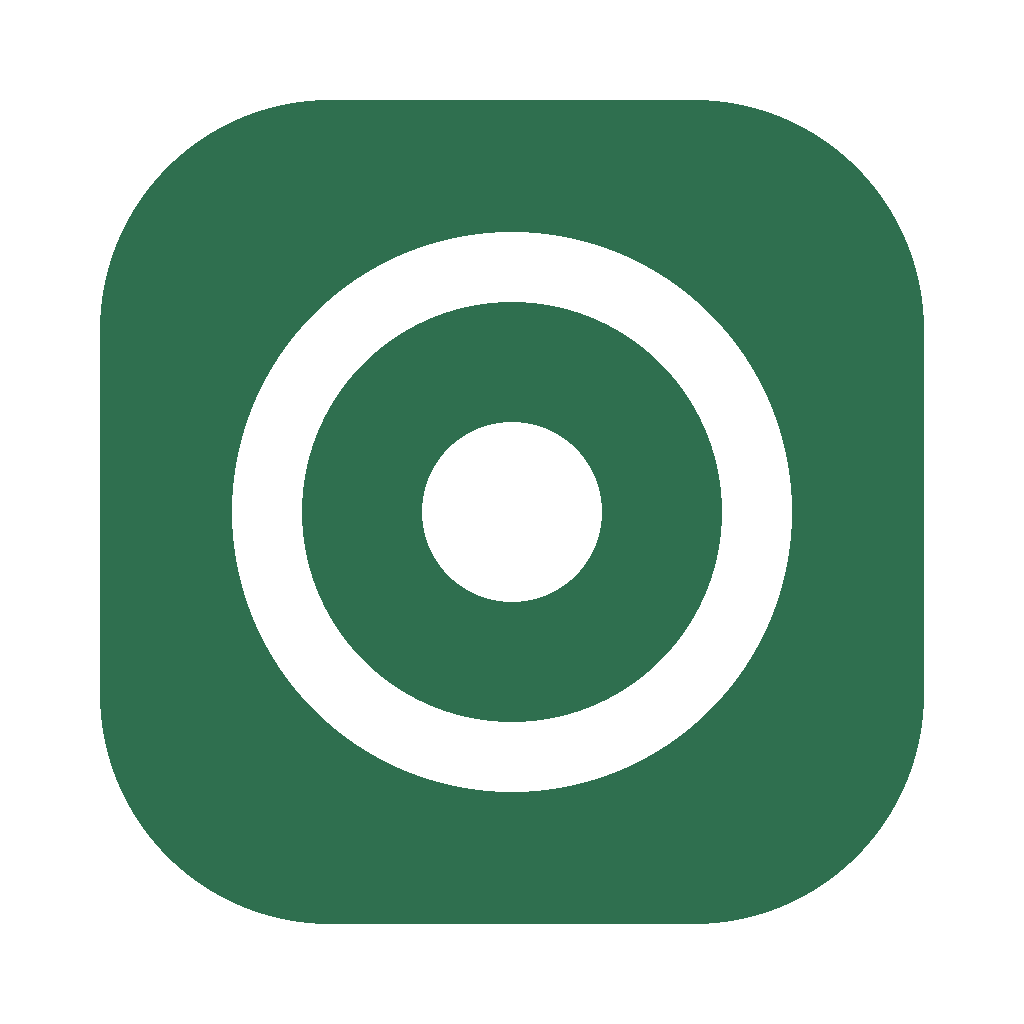
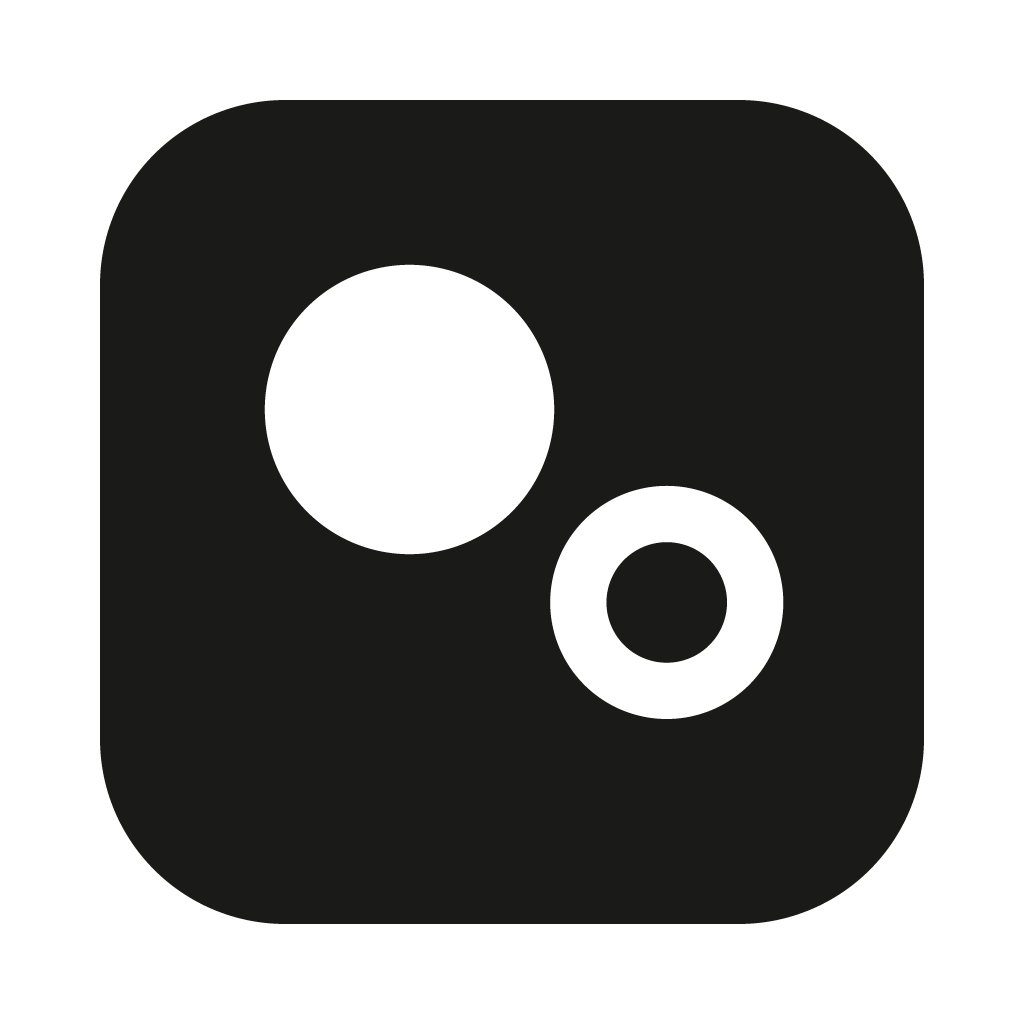
设计系统:"一实一空"的两声图形,品牌色只用墨色
- 决策记录 0009:图形是一实一空的两个圆;空心表示还没发生或正在发生,
  实心表示已有结果,这条规则贯穿菜单栏、状态标记和未读标记;品牌色只用
  墨色,彩色只表示状态;字标写作小写等宽的 bugu。
- docs/DESIGN.md:名字写法、图形用法、菜单栏状态、浅色和深色的颜色变量、
  运行状态标记、文字、形状、组件和文案。AGENTS.md 增加指向它的链接。
- resources/logo.svg 作为图形的几何定义;应用图标改为墨色圆角方块加反白
  图形;菜单栏模板图标按同一几何绘制并抗锯齿。
- 前端换用新的颜色变量;顶栏改为图形加 bugu 字标;状态由彩色标签改为
  圆点加文字,只有失败和中断用彩色文字;任务名、触发和时间用等宽字体。

菜单栏图标随状态变化(运行中、有新结果、有失败)尚未实现,要等未读计数。

已验证:make check 通过;在浏览器里查看了浅色和深色两种模式下的任务
列表和运行记录。新图标尚未在打包后的应用里查看。

diff --git a/internal/server/static/style.css b/internal/server/static/style.css
@@ -1,14 +1,18 @@
+/* 颜色和尺寸的取值见 docs/DESIGN.md。品牌只用墨色,彩色只表示状态。 */
 :root {
-  --bg: #f6f6f4; --surface: #fff; --text: #1d1d1b; --muted: #6b6b66; --line: #e2e2dc;
-  --accent: #2f6f4f; --accent-text: #fff; --danger: #b3261e; --warn: #9a6700;
-  --ok-bg: #e4f2e9; --bad-bg: #fbe7e5; --warn-bg: #fdf1d3; --idle-bg: #ecece6;
+  --ink: #1a1a18; --on-ink: #fff;
+  --bg: #f5f5f2; --surface: #fff; --hover: #efefea; --line: #e4e4de;
+  --text: #1a1a18; --muted: #6e6e68; --idle: #9a9a93;
+  --ok: #2e7d4f; --bad: #c2362b; --warn: #8f5c00;
+  --mono: ui-monospace, SFMono-Regular, Menlo, Consolas, monospace;
   font: 14px/1.5 system-ui, -apple-system, "PingFang SC", "Microsoft YaHei", sans-serif;
 }
 @media (prefers-color-scheme: dark) {
   :root {
-    --bg: #171716; --surface: #222220; --text: #ecece8; --muted: #a3a39c; --line: #3a3a36;
-    --accent: #5fb389; --accent-text: #10241a; --danger: #ff8a80; --warn: #e5b85a;
-    --ok-bg: #1f3a2b; --bad-bg: #472321; --warn-bg: #43361a; --idle-bg: #33332f;
+    --ink: #ededea; --on-ink: #141413;
+    --bg: #141413; --surface: #1e1e1c; --hover: #262624; --line: #34342f;
+    --text: #ededea; --muted: #a2a29b; --idle: #77776f;
+    --ok: #5fbf86; --bad: #ff7b6e; --warn: #e3b04f;
   }
 }
 * { box-sizing: border-box; }
@@ -17,51 +21,67 @@ body { margin: 0; background: var(--bg); color: var(--text); }
 h1 { font-size: 16px; margin: 0; }
 h2 { font-size: 18px; margin: 0; }
 h3 { font-size: 13px; margin: 16px 0 6px; color: var(--muted); font-weight: 600; }
-code, pre { font-family: ui-monospace, SFMono-Regular, Menlo, Consolas, monospace; font-size: 12.5px; }
+code, pre, .mono { font-family: var(--mono); font-size: 12.5px; }
 
 .bar { display: flex; align-items: center; gap: 16px; padding: 10px 20px; background: var(--surface); border-bottom: 1px solid var(--line); }
+.brand { display: flex; align-items: center; gap: 7px; color: var(--ink); font: 400 16px/1 var(--mono); }
+.brand svg { width: 22px; height: 22px; }
 .spacer { flex: 1; }
 .tab { border: 0; background: none; padding: 6px 10px; border-radius: 6px; color: var(--muted); }
-.tab.active { background: var(--idle-bg); color: var(--text); font-weight: 600; }
+.tab:hover { color: var(--text); }
+.tab.active { background: var(--hover); color: var(--text); font-weight: 600; }
 main { max-width: 1040px; margin: 0 auto; padding: 24px 20px 48px; }
 .head { display: flex; align-items: center; justify-content: space-between; gap: 12px; margin-bottom: 14px; }
 .muted { color: var(--muted); }
 .empty { color: var(--muted); padding: 36px 0; text-align: center; }
-.error { color: var(--danger); margin: 10px 0; white-space: pre-wrap; }
+.error { color: var(--bad); margin: 10px 0; white-space: pre-wrap; }
 .card { background: var(--surface); border: 1px solid var(--line); border-radius: 10px; padding: 20px; }
 .narrow { max-width: 420px; margin: 48px auto; display: grid; gap: 12px; }
 
 .scroll { overflow-x: auto; }
-table { width: 100%; border-collapse: collapse; background: var(--surface); border: 1px solid var(--line); border-radius: 10px; }
+table { width: 100%; border-collapse: separate; border-spacing: 0; background: var(--surface); border: 1px solid var(--line); border-radius: 10px; }
 th, td { text-align: left; padding: 9px 12px; border-bottom: 1px solid var(--line); white-space: nowrap; }
 th { font-size: 12px; color: var(--muted); font-weight: 600; }
 tbody tr:last-child td { border-bottom: 0; }
+td.mono { font-size: 13px; }
+td.time { font-family: var(--mono); font-size: 13px; color: var(--muted); }
 td.wrap { white-space: normal; min-width: 180px; }
 td.ops { text-align: right; }
 td.ops button { margin-left: 6px; }
 #runs-table tbody tr { cursor: pointer; }
-#runs-table tbody tr:hover, #runs-table tbody tr:focus { background: var(--idle-bg); outline: none; }
+#runs-table tbody tr:hover, #runs-table tbody tr:focus { background: var(--hover); outline: none; }
 
-.badge { display: inline-block; padding: 1px 8px; border-radius: 999px; font-size: 12px; background: var(--idle-bg); }
-.badge.ok { background: var(--ok-bg); }
-.badge.bad { background: var(--bad-bg); color: var(--danger); }
-.badge.warn { background: var(--warn-bg); color: var(--warn); }
+/* 状态标记:空心表示还没发生或正在发生,实心表示已有结果。 */
+.mark { display: inline-flex; align-items: center; gap: 6px; --c: var(--idle); }
+.mark::before { content: ""; flex: none; width: 10px; height: 10px; border-radius: 50%; }
+.mark.solid::before { background: var(--c); }
+.mark.ring::before { border: 2px solid var(--c); }
+.mark.spin::before { border: 2px dashed var(--c); animation: spin 3s linear infinite; }
+.mark.ink { --c: var(--ink); }
+.mark.ok { --c: var(--ok); }
+.mark.warn { --c: var(--warn); }
+.mark.bad { --c: var(--bad); color: var(--bad); }
+.mark.quiet { color: var(--muted); }
+@keyframes spin { to { transform: rotate(360deg); } }
+@media (prefers-reduced-motion: reduce) { .mark.spin::before { animation: none; } }
 
 button, input, select, textarea { font: inherit; color: inherit; }
 button { border: 1px solid var(--line); background: var(--surface); padding: 5px 12px; border-radius: 6px; cursor: pointer; }
 button:hover { border-color: var(--muted); }
 button:disabled { opacity: .5; cursor: default; }
-button.primary { background: var(--accent); border-color: var(--accent); color: var(--accent-text); font-weight: 600; }
-button.danger { color: var(--danger); }
-:focus-visible { outline: 2px solid var(--accent); outline-offset: 1px; }
+button.primary { background: var(--ink); border-color: var(--ink); color: var(--on-ink); font-weight: 600; }
+button.primary:hover { opacity: .88; }
+button.danger { color: var(--bad); }
+:focus-visible { outline: 2px solid var(--ink); outline-offset: 1px; }
 
 label { display: grid; gap: 4px; margin-top: 10px; font-weight: 600; font-size: 13px; }
 label.inline { display: inline-flex; align-items: center; gap: 6px; margin: 0 14px 0 0; font-weight: 400; font-size: 14px; }
 label small { font-weight: 400; color: var(--muted); }
 input:not([type=radio]), select, textarea { width: 100%; padding: 6px 8px; border: 1px solid var(--line); border-radius: 6px; background: var(--bg); font-weight: 400; font-size: 14px; }
+input[type=radio] { accent-color: var(--ink); }
 label.inline select { width: auto; }
-textarea { resize: vertical; font-family: ui-monospace, Menlo, Consolas, monospace; font-size: 12.5px; }
-fieldset { border: 1px solid var(--line); border-radius: 8px; margin: 14px 0 0; padding: 10px 14px 14px; }
+textarea { resize: vertical; font-family: var(--mono); font-size: 12.5px; }
+fieldset { border: 1px solid var(--line); border-radius: 10px; margin: 14px 0 0; padding: 10px 14px 14px; }
 legend { padding: 0 6px; color: var(--muted); font-size: 12px; }
 
 dialog { border: 1px solid var(--line); border-radius: 12px; padding: 20px; background: var(--surface); color: var(--text); width: min(560px, calc(100vw - 32px)); max-height: calc(100vh - 32px); }
@@ -71,10 +91,10 @@ dialog::backdrop { background: rgba(0, 0, 0, .35); }
 dl { display: grid; grid-template-columns: max-content 1fr; gap: 4px 16px; margin: 0; }
 dt { color: var(--muted); }
 dd { margin: 0; overflow-wrap: anywhere; }
-pre { margin: 0; padding: 10px 12px; background: var(--bg); border: 1px solid var(--line); border-radius: 8px; max-height: 280px; overflow: auto; white-space: pre-wrap; overflow-wrap: anywhere; }
+pre { margin: 0; padding: 10px 12px; background: var(--bg); border: 1px solid var(--line); border-radius: 10px; max-height: 280px; overflow: auto; white-space: pre-wrap; overflow-wrap: anywhere; }
 pre:empty::before { content: "(空)"; color: var(--muted); }
 
-.bar h1, .tab, #nav { white-space: nowrap; }
+.bar .brand, .tab, #nav { white-space: nowrap; }
 @media (max-width: 520px) {
   #conn { display: none; }
   .bar { padding: 10px 14px; gap: 10px; }

diff --git a/internal/server/static/app.js b/internal/server/static/app.js
@@ -97,20 +97,21 @@ function toLocalInput(iso) {
   return `${d.getFullYear()}-${pad(d.getMonth() + 1)}-${pad(d.getDate())}T${pad(d.getHours())}:${pad(d.getMinutes())}`;
 }
 
+// 运行状态的文字和标记。标记的画法见 docs/DESIGN.md:空心是还没发生或正在发生,实心是已有结果。
 const STATUS = {
-  queued: ["排队中", ""],
-  running: ["运行中", "warn"],
-  succeeded: ["成功", "ok"],
-  failed: ["失败", "bad"],
-  timed_out: ["超时", "bad"],
-  skipped: ["已跳过", ""],
-  missed: ["已错过", ""],
-  canceled: ["已取消", ""],
-  interrupted: ["中断", "bad"],
+  queued: ["排队中", "ring"],
+  running: ["运行中", "spin ink"],
+  succeeded: ["成功", "solid ok"],
+  failed: ["失败", "solid bad"],
+  timed_out: ["超时", "solid warn"],
+  skipped: ["已跳过", "solid quiet"],
+  missed: ["已错过", "solid quiet"],
+  canceled: ["已取消", "solid quiet"],
+  interrupted: ["中断", "solid bad"],
 };
 
-function badge(text, kind) {
-  return h("span", { class: "badge " + (kind || "") }, text);
+function mark(text, kind) {
+  return h("span", { class: "mark " + kind }, text);
 }
 
 function describeTrigger(tr) {
@@ -168,13 +169,13 @@ async function loadTasks() {
 }
 
 function taskRow(t) {
-  const status = t.running ? badge("运行中", "warn") : t.paused ? badge("已暂停", "") : badge("已启用", "ok");
+  const status = t.running ? mark("运行中", "spin ink") : t.paused ? mark("已暂停", "ring quiet") : mark("等待", "ring");
   const act = (label, fn, cls) => h("button", { type: "button", class: cls || "", onclick: () => run(fn) }, label);
   return h("tr", {},
-    h("td", {}, t.name),
-    h("td", {}, h("code", {}, describeTrigger(t.trigger))),
+    h("td", { class: "mono" }, t.name),
+    h("td", { class: "time" }, describeTrigger(t.trigger)),
     h("td", {}, status),
-    h("td", {}, formatTime(t.next_run)),
+    h("td", { class: "time" }, formatTime(t.next_run)),
     h("td", { class: "ops" },
       act("立即运行", async () => {
         const r = await api("POST", `/tasks/${encodeURIComponent(t.name)}/run`);
@@ -367,12 +368,12 @@ async function loadRuns() {
 }
 
 function runRow(r) {
-  const [label, kind] = STATUS[r.status] || [r.status, ""];
+  const [label, kind] = STATUS[r.status] || [r.status, "ring"];
   const open = () => openRun(r.id);
   return h("tr", { tabindex: "0", onclick: open, onkeydown: (e) => e.key === "Enter" && open() },
-    h("td", {}, formatTime(r.started_at || r.created_at)),
-    h("td", {}, r.task),
-    h("td", {}, badge(label, kind)),
+    h("td", { class: "time" }, formatTime(r.started_at || r.created_at)),
+    h("td", { class: "mono" }, r.task),
+    h("td", {}, mark(label, kind)),
     h("td", {}, r.exit_code === undefined ? "-" : String(r.exit_code)),
     h("td", {}, r.trigger === "manual" ? "手动" : "定时"),
     h("td", { class: "wrap" }, r.note || (r.status === "failed" ? "" : r.error || "")));

diff --git a/internal/server/static/index.html b/internal/server/static/index.html
@@ -9,7 +9,7 @@
 </head>
 <body>
 <header class="bar">
-  <h1>布谷</h1>
+  <h1 class="brand" aria-label="布谷"><svg viewBox="0 0 48 48" aria-hidden="true"><circle cx="17" cy="19" r="9" fill="currentColor"/><circle cx="33" cy="31" r="5.5" fill="none" stroke="currentColor" stroke-width="3.5"/></svg>bugu</h1>
   <nav id="nav" hidden>
     <button type="button" data-view="tasks" class="tab">任务</button>
     <button type="button" data-view="runs" class="tab">运行记录</button>

diff --git a/internal/gui/gui.go b/internal/gui/gui.go
@@ -10,6 +10,7 @@ import (
 	"image/color"
 	"image/png"
 	"io"
+	"math"
 	"net/url"
 	"os"
 	"os/signal"
@@ -208,16 +209,28 @@ func (a *app) notify(m notify.Message) {
 	}
 }
 
-// trayIcon 画一个菜单栏用的模板图标:透明背景上的黑色圆环加中心圆点。
+// trayIcon 画菜单栏用的模板图标:透明背景上的黑色 logo,左上实心圆、右下空心圆。
+// 几何取自 resources/logo.svg,平移后正好占满 36×36(菜单栏 18pt 的两倍像素)。
 func trayIcon() []byte {
-	const size = 36
+	const size, sub = 36, 4 // 每个像素取 4×4 个采样点,边缘抗锯齿
+	const ox, oy = 5.5, 7.5 // logo 画布到图标的平移
+	inside := func(x, y float64) bool {
+		d1 := math.Hypot(x-(17-ox), y-(19-oy))
+		d2 := math.Hypot(x-(33-ox), y-(31-oy))
+		return d1 <= 9 || (d2 >= 5.5-1.75 && d2 <= 5.5+1.75)
+	}
 	img := image.NewNRGBA(image.Rect(0, 0, size, size))
 	for y := range size {
 		for x := range size {
-			dx, dy := float64(x)-size/2+0.5, float64(y)-size/2+0.5
-			if d := dx*dx + dy*dy; d <= 5*5 || (d >= 11*11 && d <= 14.5*14.5) {
-				img.Set(x, y, color.NRGBA{A: 255})
+			n := 0
+			for sy := range sub {
+				for sx := range sub {
+					if inside(float64(x)+(float64(sx)+0.5)/sub, float64(y)+(float64(sy)+0.5)/sub) {
+						n++
+					}
+				}
 			}
+			img.Set(x, y, color.NRGBA{A: uint8(n * 255 / (sub * sub))})
 		}
 	}
 	var b bytes.Buffer

diff --git a/docs/DESIGN.md b/docs/DESIGN.md
@@ -1,0 +1,107 @@
+# 设计规范
+
+Bugu 的视觉和界面写法。各项决定的理由见 [ADR 0009](adr/0009-brand-two-notes.md)。前端代码的结构见 [ARCHITECTURE.md](ARCHITECTURE.md)。
+
+## 一条规则
+
+**空心表示还没发生或正在发生,实心表示已经有了结果。** 图形、菜单栏、状态标记、未读标记都从这条规则来。新加的界面元素先套这条规则,套不上再另想。
+
+## 名字
+
+| 场合 | 写法 |
+|---|---|
+| 中文正文、窗口标题、通知 | 布谷 |
+| 英文正文 | Bugu |
+| 字标、命令行、包名 | `bugu`,小写,等宽字体 |
+
+不写成 BUGU、BuGu、布谷 AI。
+
+## 图形
+
+几何定义以 [resources/logo.svg](../resources/logo.svg) 为准:48×48 的画布,左上实心圆(圆心 17,19,半径 9),右下空心圆(圆心 33,31,半径 5.5,描边 3.5)。
+
+- **颜色**:单色,用墨色或反白。不加渐变、阴影、描边,不给两个圆配不同的颜色(菜单栏的"有失败"状态除外)。
+- **最小尺寸**:16px。更小时不画。
+- **留白**:四周至少留出大圆的半径。
+- **字标组合**:图形在左,`bugu` 在右,图形高度约为字高的 1.3 倍,两者间距为大圆的半径。
+- **应用图标**:墨色圆角方块,反白的图形居中,占方块宽度的 60% 左右。深色和浅色模式用同一个图标。
+
+## 菜单栏图标
+
+作为 macOS 模板图标使用(纯黑加透明,由系统着色)。四种状态只改变右下那一声:
+
+| 状态 | 右下那一声 | 旁边 |
+|---|---|---|
+| 平时 | 空心圈,与 logo 相同 | 无 |
+| 运行中 | 虚线圈,缓慢转动 | 无 |
+| 有新结果 | 实心,半径与空心圈的外沿相同 | 未读条数 |
+| 有失败 | 实心,失败红 | 失败条数 |
+
+"有失败"不能用模板图标,深色和浅色菜单栏各准备一张。几种状态同时成立时,按"有失败 > 有新结果 > 运行中 > 平时"取第一个。
+
+## 颜色
+
+品牌色只用墨色。彩色只用来表示状态,不用于装饰、不用于按钮。
+
+| 变量 | 用途 | 浅色 | 深色 |
+|---|---|---|---|
+| `--ink` | 品牌、主按钮、选中、图形 | `#1a1a18` | `#ededea` |
+| `--on-ink` | 墨色上的文字 | `#ffffff` | `#141413` |
+| `--bg` | 页面底色(纸色) | `#f5f5f2` | `#141413` |
+| `--surface` | 卡片、表格、顶栏 | `#ffffff` | `#1e1e1c` |
+| `--hover` | 悬停、选中的标签页 | `#efefea` | `#262624` |
+| `--line` | 分隔线、边框 | `#e4e4de` | `#34342f` |
+| `--text` | 正文 | `#1a1a18` | `#ededea` |
+| `--muted` | 次要文字 | `#6e6e68` | `#a2a29b` |
+| `--idle` | 等待、暂停的空心圈 | `#9a9a93` | `#77776f` |
+| `--ok` | 成功 | `#2e7d4f` | `#5fbf86` |
+| `--bad` | 失败、危险操作 | `#c2362b` | `#ff7b6e` |
+| `--warn` | 超时、警告 | `#8f5c00` | `#e3b04f` |
+
+- 正文和次要文字与它的底色对比度不低于 4.5:1。`--idle` 只用于图形,不用于文字。
+- 深色模式跟随系统(`prefers-color-scheme`),不提供单独的开关。
+
+## 运行状态标记
+
+状态用"10px 的圆点 + 文字",不用彩色底的标签。
+
+| 状态 | 圆点 | 文字颜色 |
+|---|---|---|
+| 等待(任务已启用)、排队中 | `--idle` 空心圈 | `--text` |
+| 已暂停 | `--idle` 空心圈 | `--muted` |
+| 运行中 | `--ink` 虚线圈,缓慢转动 | `--text` |
+| 成功 | `--ok` 实心 | `--text` |
+| 已跳过、已错过、已取消 | `--idle` 实心 | `--muted` |
+| 超时 | `--warn` 实心 | `--text` |
+| 失败、中断 | `--bad` 实心 | `--bad` |
+
+只有失败的文字用彩色:一屏里出问题的那一行应当最先被看到。系统设置了减少动态效果时,虚线圈不转动。
+
+收件箱里未读的结果前面有一个 8px 的 `--ink` 实心点,读过之后去掉。
+
+## 文字
+
+- 界面文字用系统字体:`system-ui, -apple-system, "PingFang SC", "Microsoft YaHei", sans-serif`。不打包字体文件。
+- 字标 `bugu`、任务名、cron 表达式、时间、命令、输出用等宽字体:`ui-monospace, SFMono-Regular, Menlo, Consolas, monospace`。
+- 字号:正文 14px,表头和说明 12px,区块标题 18px。不用 12px 以下的字号。
+- 字重只用两档:400 和 600。
+
+## 形状和间距
+
+- 圆角:按钮、输入框、标签页 6px;卡片、表格 10px;对话框 12px。
+- 边框和分隔线 1px `--line`。不用阴影,对话框的遮罩除外。
+- 间距取 4 的倍数,常用 8、12、16、24。
+
+## 组件
+
+- **按钮**:默认是 `--surface` 底加 `--line` 边框。主按钮是 `--ink` 底、`--on-ink` 字,一屏最多一个。危险操作的按钮用 `--bad` 文字,不用红底。
+- **表格**:行与行之间只用分隔线,不用斑马纹。任务名、时间列用等宽字体,时间列用 `--muted`。
+- **卡片**:`--surface` 底、1px 边框、10px 圆角、内边距 16px。
+- **空状态**:用一句话说这里会出现什么,再给出下一步的按钮。
+
+## 文案
+
+- 直说。不用"成功地""请""您",也不用感叹号。
+- 按钮写动作,动词在前:"新建任务""立即运行"。
+- 出错时先说发生了什么,再说怎么办。不把原始的错误字符串直接给用户看,完整内容放进运行记录。
+- 时间写成用户读得懂的样子:"今天 18:31""明天 09:00",cron 表达式只在编辑和详情里出现。

diff --git a/docs/adr/0009-brand-two-notes.md b/docs/adr/0009-brand-two-notes.md
@@ -1,0 +1,39 @@
+# 0009 品牌图形用"一实一空"的两声,品牌色只用墨色
+
+日期:2026-11-12
+
+## 背景
+
+M2 的应用图标是绿底白色同心圆,只是临时占位。它看起来像录音键或相机,和"布谷"没有联系。主色墨绿和"成功"状态的绿色混在一起。菜单栏还缺一个能显示状态的单色图标(G9)。
+
+## 决定
+
+1. **图形**:布谷鸟一次叫两声。图形是两个圆,左上大圆为实心,右下小圆为空心:第一声已经响过,第二声还没到。几何定义见 [resources/logo.svg](../../resources/logo.svg)。
+2. **一条规则贯穿界面**:空心表示还没发生或正在发生,实心表示已经有了结果。菜单栏图标、运行状态标记、收件箱的未读标记都按这条规则画。
+3. **菜单栏图标就是状态灯**:平时就是 logo;运行中,空的那一声变成转动的虚线圈;有新结果,空的那一声被填满,旁边显示条数;有失败,填满的那一声为红色。
+4. **品牌色只用墨色**:深色模式下反转为接近白色。彩色只用来表示状态。
+5. **字标**:英文和命令行一样写成小写 `bugu`,用等宽字体。中文场合写"布谷",用系统字体。
+
+具体的颜色、尺寸、组件写法见 [DESIGN.md](../DESIGN.md)。
+
+## 理由
+
+- 两声比钟、鸟、表盘都简单,16px 的菜单栏里仍然清楚。
+- 空着的第二声表示"等待",被填满表示"有事"。这正是 PRD 第 2 章"没有新内容就不打扰":菜单栏图标不变,就说明没有事要看。
+- 品牌色和状态色分开以后,绿色只表示成功、红色只表示失败,不会因为主色是绿色而读错。
+- 图形是纯单色,可以作为 macOS 的模板图标,系统自动适配深色和浅色菜单栏。只有"有失败"一种状态需要彩色图片。
+- 用空心和实心区分状态,色觉障碍的用户不靠颜色也能分辨"发生了没有"。
+- 等宽的 `bugu` 和命令行里输入的名字一致。
+
+## 否决的方案
+
+- 现在的同心圆:和产品没有联系。
+- 布谷钟的小门、鸟头加表盘:意思更直白,但在 16px 下线条会糊。
+- 两个实心圆:少了"等待"和"有结果"的区别,菜单栏图标没法兼做状态灯。
+- 墨绿、石板蓝灰、赭橙作为品牌色:要么和状态色冲突,要么只能在图标上用、到界面里没有作用。
+
+## 后果
+
+- 应用图标、菜单栏图标和前端的颜色变量要按新规范重做。
+- "有失败"状态的菜单栏图标是彩色的,深色和浅色菜单栏要各准备一张。
+- 墨色作为品牌色,在 Dock 和图标列表里不如彩色醒目。

diff --git a/AGENTS.md b/AGENTS.md
@@ -9,6 +9,7 @@
 - 某条需求的含义:docs/PRD.md 第 7 章,按编号查(S4、R6、T7…)。术语见第 4 章。
 - 包的职责和依赖方向:[docs/ARCHITECTURE.md](docs/ARCHITECTURE.md)。
 - 某个设计为什么这样定:[docs/adr/](docs/adr/)。
+- 改界面、图标、文案:[docs/DESIGN.md](docs/DESIGN.md)。
 
 ## 命令
 
